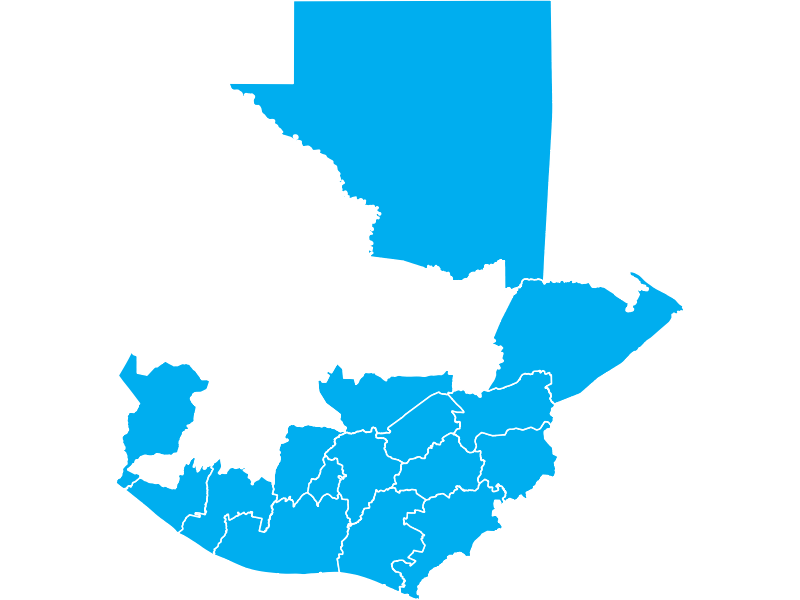
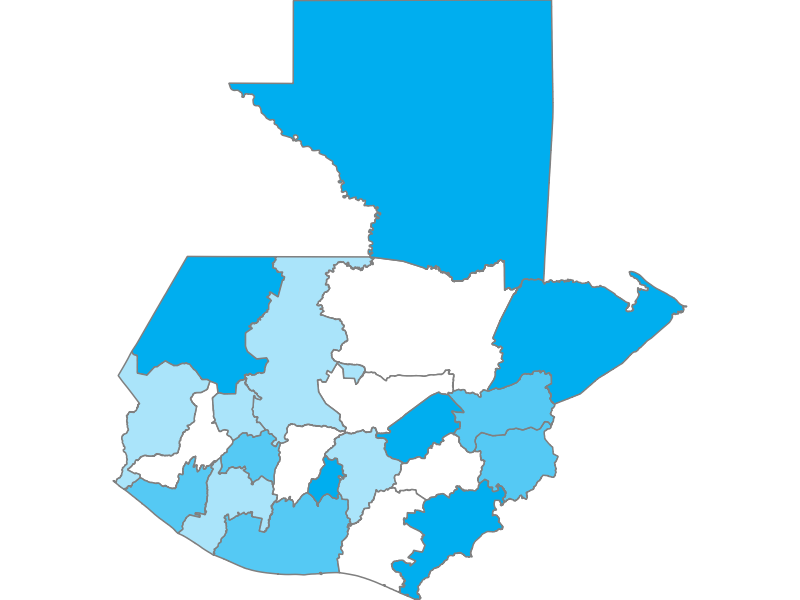
Versión con cambio de borde

diff --git a/Mapa.py b/Mapa.py
@@ -29,7 +29,7 @@ class Mapa:
 
 
 
-    def pintar_mapa_intervalos(self,fieldName, color1 ,color2 ,discreto = False):
+    def pintar_mapa_intervalos(self,fieldName, color1 ,color2, numeroClases ,discreto = False):
         rampa = QgsGradientColorRamp(color1,color2,discreto)
         #Crear el método de clasificación
         clasificacion = QgsClassificationQuantile()
@@ -40,11 +40,23 @@ class Mapa:
         renderer.setClassAttribute(fieldName)
         renderer.setClassificationMethod(clasificacion)
         renderer.updateColorRamp(rampa)
-        props = {'color_border': '255,255,255,255', 'style': 'solid', 'style_border': 'solid', 'width_border': '0.4'}
-        symbol = QgsFillSymbol.createSimple(props)
+        #props = {'color_border': 'black', 'style': 'solid', 'style_border': 'solid', 'width_border': '0.4'}
+        #symbol = QgsFillSymbol.createSimple(props)
+
+        symbol = self.mapa.renderer().symbol()
+
         renderer = QgsGraduatedSymbolRenderer.createRenderer(self.mapa,
-                                                             fieldName, 4, QgsGraduatedSymbolRenderer.Quantile, symbol, rampa)
+                                                             fieldName, numeroClases, QgsGraduatedSymbolRenderer.Quantile, symbol, rampa)
         self.mapa.setRenderer(renderer)
+
+    def cambiarBorde(self, color = 'white', grosor = 0.3):
+        props = {'color_border': color, 'style': 'solid', 'style_border': 'solid', 'width_border': grosor}
+        symbol = QgsFillSymbol.createSimple(props)
+        self.mapa.renderer().updateSymbols(symbol)
+
+
+
+
 
     def exportarMapa(self):
         image_location = os.path.join(QgsProject.instance().homePath(), "render1.png")

diff --git a/test_MapaDepartamental.py b/test_MapaDepartamental.py
@@ -16,7 +16,7 @@ class TestMapaDepartamental(TestCase):
     def test_crear_layer_datos(self):
         self.test_cargar_shape()
         self.test_cargar_datos()
-        self.mapa.crear_layer_datos(x= 'Código Departamento',y='Educación')
+        self.mapa.crear_layer_datos(x= 'Código Departamento',y='Continuo')
         print(self.mapa.proyecto.mapLayers())
 
     def test_join(self):
@@ -25,10 +25,15 @@ class TestMapaDepartamental(TestCase):
 
     def test_pintar_mapa_intervalos(self):
         self.test_join()
-        self.mapa.pintar_mapa_intervalos(fieldName = "datos_Educación",color1=self.mapa.colorCyan,
-                              color2=self.mapa.colorBlanco)
+        self.mapa.pintar_mapa_intervalos(fieldName = "datos_Continuo",color1=self.mapa.colorCyan,
+                              color2=self.mapa.colorBlanco, numeroClases=4)
         #self.mapa.exportarMapa()
 
     def test_exportar_mapa(self):
         self.test_pintar_mapa_intervalos()
+        self.mapa.exportarMapa()
+
+    def test_cambiarBorde(self):
+        self.test_pintar_mapa_intervalos()
+        self.mapa.cambiarBorde(color="#808080",grosor=0.4)
         self.mapa.exportarMapa()
